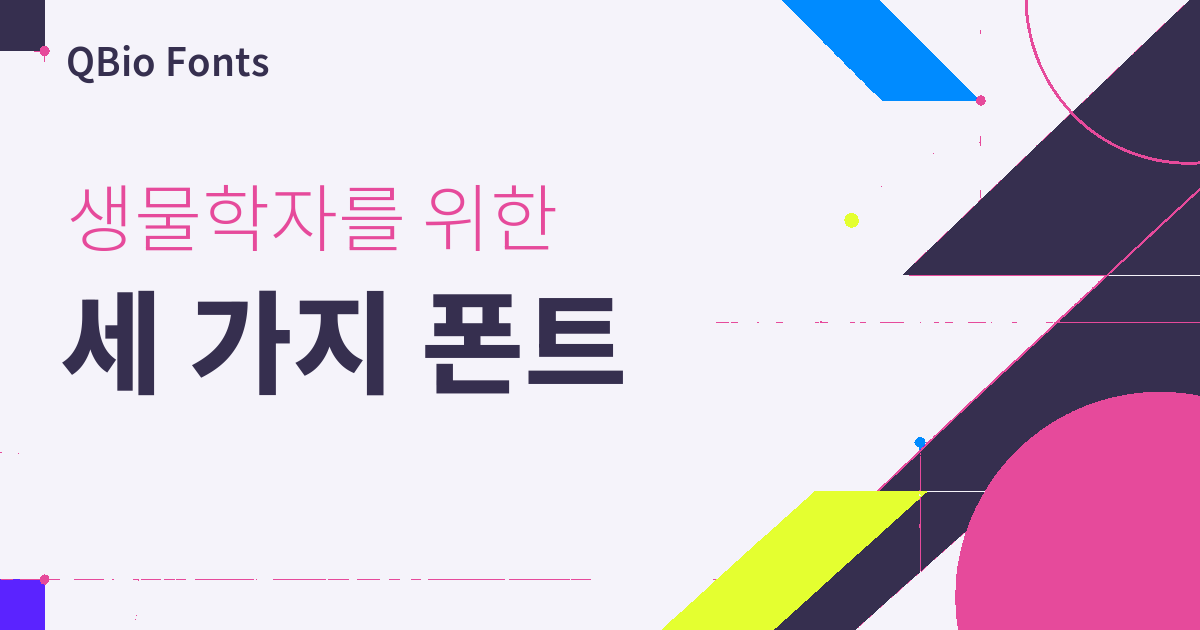
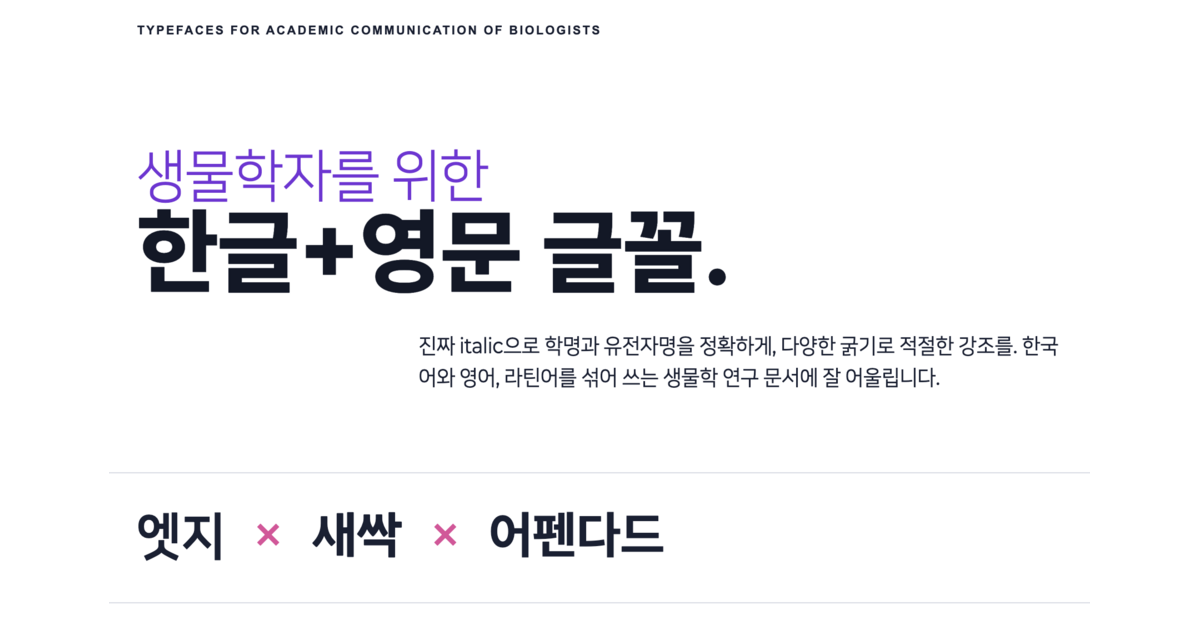
Refresh the social preview image
- Replace the Open Graph card with the supplied QBio Fonts screenshot.
- Fit the card to 1200 by 630 pixels and refresh its metadata URL.

diff --git a/fonts/app/layout.tsx b/fonts/app/layout.tsx
@@ -3,6 +3,7 @@ import { siteMetadata } from "./content";
 import "./globals.css";
 
 const siteUrl = "https://qbio.io/share/fonts";
+const socialImageUrl = `${siteUrl}/og.png?v=20260831`;
 const { title, description, socialImageAlt } = siteMetadata;
 
 export const dynamic = "force-static";
@@ -17,13 +18,13 @@ export const metadata: Metadata = {
     type: "website",
     locale: "ko_KR",
     url: `${siteUrl}/`,
-    images: [{ url: `${siteUrl}/og.png`, width: 1200, height: 630, alt: socialImageAlt }],
+    images: [{ url: socialImageUrl, width: 1200, height: 630, alt: socialImageAlt }],
   },
   twitter: {
     card: "summary_large_image",
     title,
     description,
-    images: [`${siteUrl}/og.png`],
+    images: [socialImageUrl],
   },
 };
 
